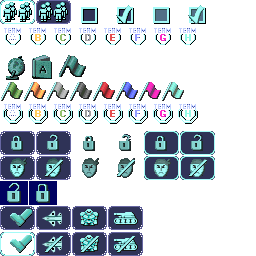
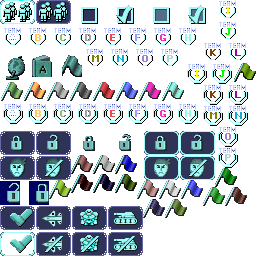
Add IMAGE_PLAYERN and IMAGE_TEAMN for N = 8..15.

diff --git a/src/frend.h b/src/frend.h
@@ -53,6 +53,14 @@ enum {
 	IMAGE_PLAYER5,
 	IMAGE_PLAYER6,
 	IMAGE_PLAYER7,
+	IMAGE_PLAYER8,
+	IMAGE_PLAYER9,
+	IMAGE_PLAYER10,
+	IMAGE_PLAYER11,
+	IMAGE_PLAYER12,
+	IMAGE_PLAYER13,
+	IMAGE_PLAYER14,
+	IMAGE_PLAYER15,
 	IMAGE_HOST,
 	IMAGE_NO,
 	IMAGE_OK,
@@ -151,6 +159,14 @@ enum {
 	IMAGE_TEAM5,
 	IMAGE_TEAM6,
 	IMAGE_TEAM7,
+	IMAGE_TEAM8,
+	IMAGE_TEAM9,
+	IMAGE_TEAM10,
+	IMAGE_TEAM11,
+	IMAGE_TEAM12,
+	IMAGE_TEAM13,
+	IMAGE_TEAM14,
+	IMAGE_TEAM15,
 	IMAGE_HOST_HI,
 	IMAGE_KEYMAP_DEFAULT_HI,
 	IMAGE_EDIT_MAP_HI,
@@ -164,6 +180,14 @@ enum {
 	IMAGE_PLAYER5_HI,
 	IMAGE_PLAYER6_HI,
 	IMAGE_PLAYER7_HI,
+	IMAGE_PLAYER8_HI,
+	IMAGE_PLAYER9_HI,
+	IMAGE_PLAYER10_HI,
+	IMAGE_PLAYER11_HI,
+	IMAGE_PLAYER12_HI,
+	IMAGE_PLAYER13_HI,
+	IMAGE_PLAYER14_HI,
+	IMAGE_PLAYER15_HI,
 	IMAGE_TEAM0_HI,
 	IMAGE_TEAM1_HI,
 	IMAGE_TEAM2_HI,
@@ -172,6 +196,14 @@ enum {
 	IMAGE_TEAM5_HI,
 	IMAGE_TEAM6_HI,
 	IMAGE_TEAM7_HI,
+	IMAGE_TEAM8_HI,
+	IMAGE_TEAM9_HI,
+	IMAGE_TEAM10_HI,
+	IMAGE_TEAM11_HI,
+	IMAGE_TEAM12_HI,
+	IMAGE_TEAM13_HI,
+	IMAGE_TEAM14_HI,
+	IMAGE_TEAM15_HI,
 	IMAGE_CHECK_OFF,		// checkbox unchecked
 	IMAGE_CHECK_ON,			// checkbox checked
 	IMAGE_CHECK_OFF_HI,		// checkbox unchecked highlighted

diff --git a/src/multiint.cpp b/src/multiint.cpp
@@ -3876,6 +3876,7 @@ void displayColour(WIDGET *psWidget, UDWORD xOffset, UDWORD yOffset, PIELIGHT *p
 	{
 		drawBlueBox(x, y, psWidget->width, psWidget->height);
 		int player = getPlayerColour(j);
+		STATIC_ASSERT(MAX_PLAYERS <= 16);
 		iV_DrawImage(FrontImages, IMAGE_PLAYER0 + player, x + 7, y + 9);
 	}
 }
